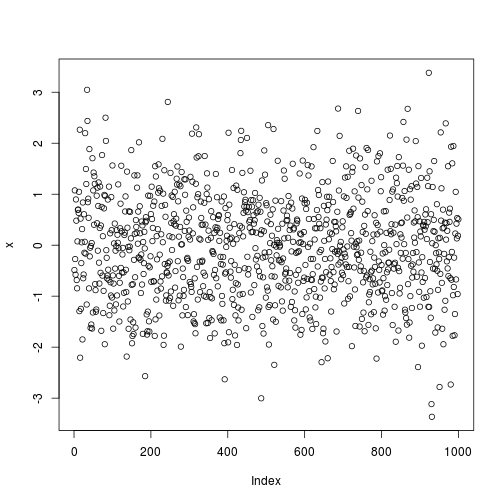
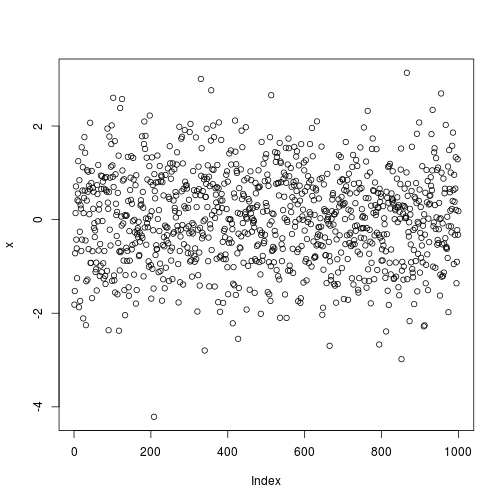
More work on Class 1

diff --git a/Class1/Class 1.md b/Class1/Class 1.md
@@ -282,7 +282,7 @@ head(x)
 ```
 
 ```
-[1] -0.4866  1.0756 -0.2712 -0.5775  0.8977  0.4816
+[1] -1.8148 -1.5262 -0.7176  0.1405  0.7109 -0.4269
 ```
 
 ```r
@@ -306,6 +306,13 @@ plot(density(x))
 
 Probability density?
 ========================================================
+
+```r
+plot(function(x) dnorm(x), -3, 3,
+main = "Normal density",ylim=c(0,.4),
+ylab="density",xlab="X")
+```
+
 ![plot of chunk unnamed-chunk-17](Class 1-figure/unnamed-chunk-17.png) 
 
 Normal probability density function (PDF)
@@ -316,8 +323,8 @@ $$
 \end{equation}
 $$
 With $x$ = value, 
-$\mu$ = population mean, 
-and $\sigma$ = population standard deviation
+$\mu$ = mean, 
+and $\sigma$ = standard deviation
 ![plot of chunk unnamed-chunk-18](Class 1-figure/unnamed-chunk-18.png) 
 
 Defining the normal PDF by hand (just in case you wanted to make sure)
@@ -337,11 +344,75 @@ ylab="density",xlab="X")
 
 ![plot of chunk unnamed-chunk-19](Class 1-figure/unnamed-chunk-19.png) 
 
-Why do we use the normal distribution?
+Why do we care about the normal distribution?
+========================================================
+- Central limit theorem (CLT)
+
+> When sampling from a population that has a mean, provided the sample size is large
+> enough, the sampling distribution of the sample mean will be close to normal regardless
+> of the shape of the population distribution
+
+Let's see if that's actually true by running some simulations!
+
+Non-normal distributions: Gamma
 ========================================================
 
 
-Other distributions: Uniform
+```r
+## plot density histogram:
+x<-rgamma(n = 1000, shape = 3)
+par(mfrow=c(1,2)) # (two plots side-by-side)
+hist(x,freq=F, breaks = 20)
+plot(function(x) dgamma(x, shape = 3), 0, 6,
+main = "Gamma density",ylim=c(0,.4),
+ylab="density",xlab="X")
+```
+
+![plot of chunk unnamed-chunk-20](Class 1-figure/unnamed-chunk-20.png) 
+
+
+Sampling from a gamma distribution (1)
+========================================================
+
+
+```r
+number_of_simulations <- 100
+
+sample_mean_from_gamma <- function(number_of_samples){
+  samples <- rgamma(number_of_samples, shape = 3)
+  mean(samples)
+}
+
+sample_means <- sapply(1:number_of_simulations, sample_mean_from_gamma)
+mean(sample_means)
+```
+
+```
+[1] 2.929
+```
+
+```r
+sd(sample_means)
+```
+
+```
+[1] 0.3798
+```
+
+Sampling from a gamma distribution (2)
+========================================================
+
+
+```r
+par(mfrow=c(1,2)) # (two plots side-by-side)
+hist(sample_means,freq=F, breaks = 20)
+plot(density(sample_means))
+```
+
+![plot of chunk unnamed-chunk-22](Class 1-figure/unnamed-chunk-22.png) 
+
+
+Non-normal distributions: Uniform
 ========================================================
 
 
@@ -350,22 +421,92 @@ Other distributions: Uniform
 x <- runif(n = 1000)
 par(mfrow=c(1,2)) # (two plots side-by-side)
 hist(x,freq=F)
-plot(density(x))
+plot(function(x) dunif(x), -3, 3,
+main = "Uniform density",ylim=c(0,1),
+ylab="density",xlab="X")
 ```
 
-![plot of chunk unnamed-chunk-20](Class 1-figure/unnamed-chunk-20.png) 
+![plot of chunk unnamed-chunk-23](Class 1-figure/unnamed-chunk-23.png) 
+
+Sampling from a uniform distribution (1)
+========================================================
 
 
-Other distributions: Gamma
+```r
+number_of_simulations <- 100
+
+sample_mean_from_unif<- function(number_of_samples){
+  samples <- runif(number_of_samples)
+  mean(samples)
+}
+
+sample_means <- sapply(1:number_of_simulations, sample_mean_from_unif)
+summary(sample_means)
+```
+
+```
+   Min. 1st Qu.  Median    Mean 3rd Qu.    Max. 
+  0.325   0.471   0.503   0.510   0.534   0.804 
+```
+
+Sampling from a uniform distribution (2)
+========================================================
+
+
+```r
+par(mfrow=c(1,2)) # (two plots side-by-side)
+hist(sample_means,freq=F, breaks = 20)
+plot(density(sample_means))
+```
+
+![plot of chunk unnamed-chunk-25](Class 1-figure/unnamed-chunk-25.png) 
+
+Non-normal distributions: Exponential
 ========================================================
 
 
 ```r
 ## plot density histogram:
-x<-rgamma(n = 1000, shape = 2)
+x <- rexp(n = 1000)
 par(mfrow=c(1,2)) # (two plots side-by-side)
 hist(x,freq=F)
-plot(density(x))
+plot(function(x) dexp(x), 0, 6,
+main = "Exponential distribution density",ylim=c(0,1),
+ylab="density",xlab="X")
 ```
 
-![plot of chunk unnamed-chunk-21](Class 1-figure/unnamed-chunk-21.png) 
+![plot of chunk unnamed-chunk-26](Class 1-figure/unnamed-chunk-26.png) 
+
+Sampling from an exponential distribution (1)
+========================================================
+
+
+```r
+number_of_simulations <- 100
+
+sample_mean_from_exp<- function(number_of_samples){
+  samples <- rexp(number_of_samples)
+  mean(samples)
+}
+
+sample_means <- sapply(1:number_of_simulations, sample_mean_from_exp)
+summary(sample_means)
+```
+
+```
+   Min. 1st Qu.  Median    Mean 3rd Qu.    Max. 
+  0.446   0.892   1.010   1.030   1.110   3.010 
+```
+
+Sampling from a uniform distribution (2)
+========================================================
+
+
+```r
+par(mfrow=c(1,2)) # (two plots side-by-side)
+hist(sample_means,freq=F, breaks = 20)
+plot(density(sample_means))
+```
+
+![plot of chunk unnamed-chunk-28](Class 1-figure/unnamed-chunk-28.png) 
+
